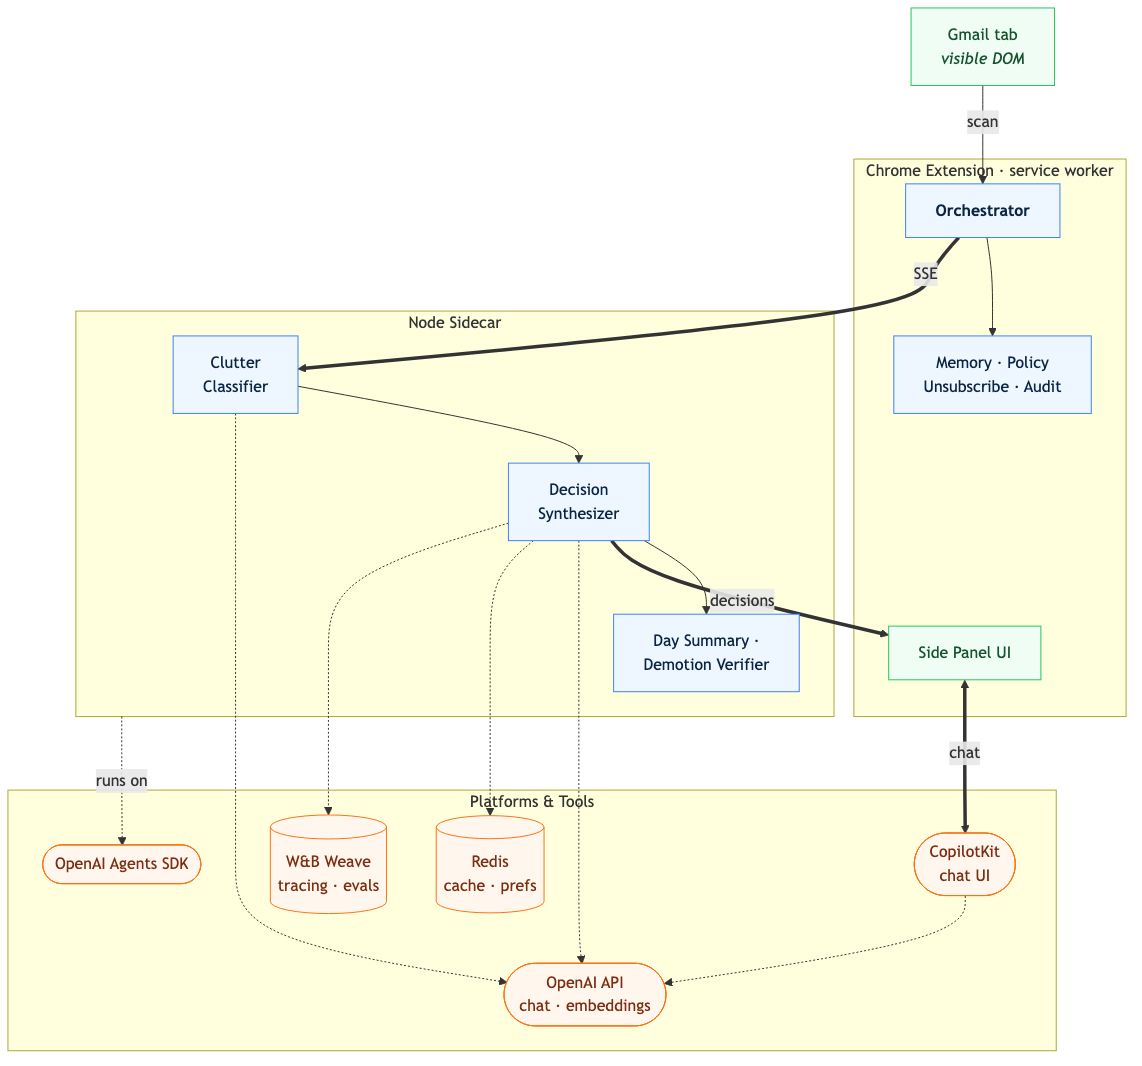
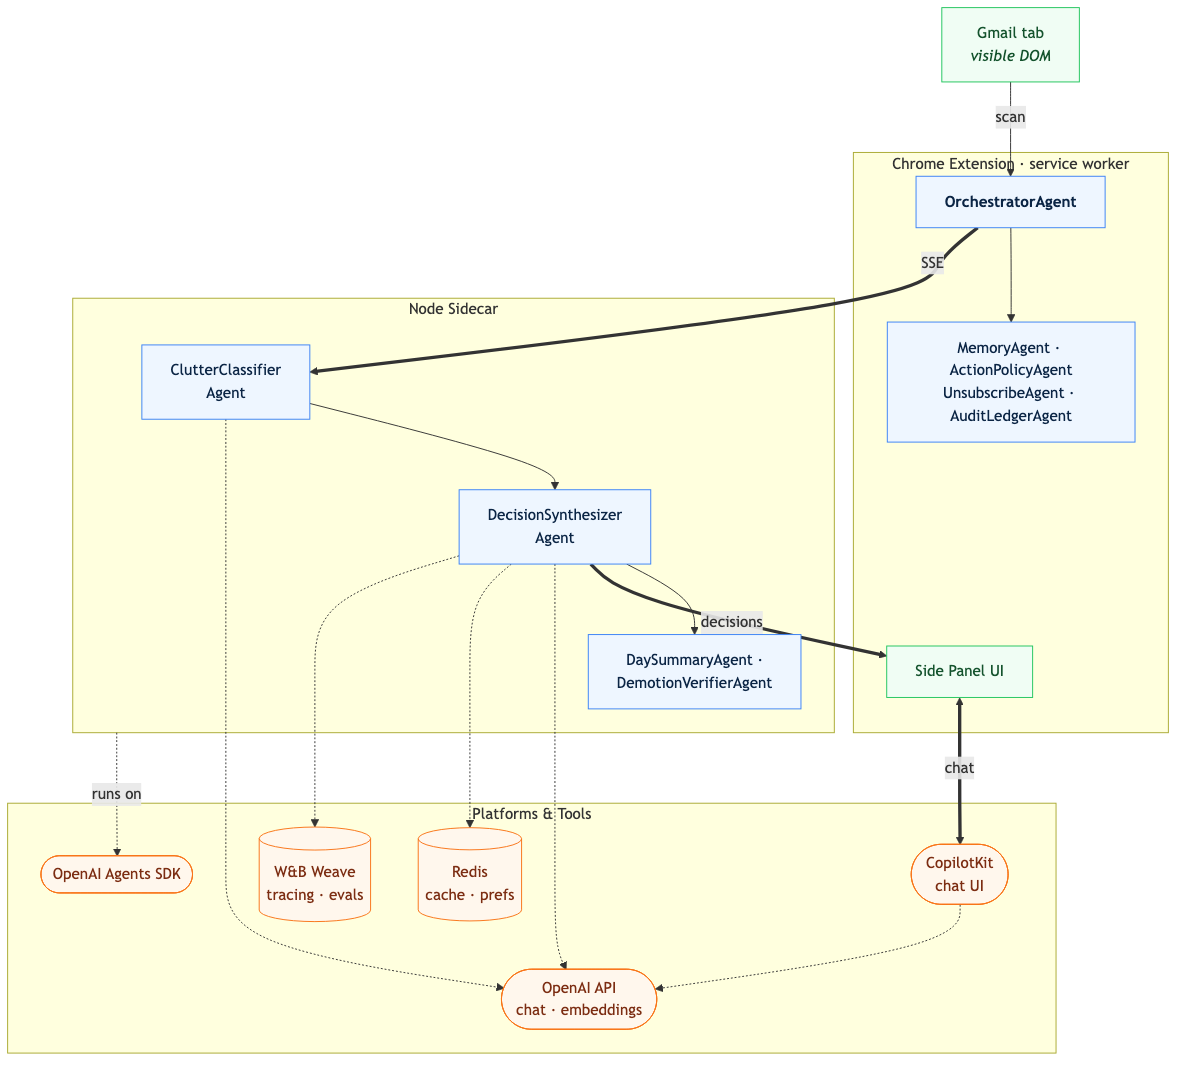
docs: use full *Agent names in the at-a-glance diagram (#70)
Anything that is an agent now carries the "Agent" suffix in the simplified
diagram, matching AGENT_REGISTRY and the detailed view: OrchestratorAgent,
MemoryAgent / ActionPolicyAgent / UnsubscribeAgent / AuditLedgerAgent,
ClutterClassifierAgent, DecisionSynthesizerAgent, DaySummaryAgent,
DemotionVerifierAgent. Non-agents (Side Panel UI, Gmail) and the platforms
are unchanged. Re-rendered the PNG hero.

diff --git a/docs/architecture.md b/docs/architecture.md
@@ -30,16 +30,16 @@ flowchart TB
 
   subgraph EXT["Chrome Extension · service worker"]
     direction LR
-    ORCH["<b>Orchestrator</b>"]
-    SUPPORT["Memory · Policy<br/>Unsubscribe · Audit"]
+    ORCH["<b>OrchestratorAgent</b>"]
+    SUPPORT["MemoryAgent · ActionPolicyAgent<br/>UnsubscribeAgent · AuditLedgerAgent"]
     PANEL["Side Panel UI"]
   end
 
   subgraph SIDE["Node Sidecar"]
     direction LR
-    CLUT["Clutter<br/>Classifier"]
-    SYN["Decision<br/>Synthesizer"]
-    EXTRA["Day Summary ·<br/>Demotion Verifier"]
+    CLUT["ClutterClassifier<br/>Agent"]
+    SYN["DecisionSynthesizer<br/>Agent"]
+    EXTRA["DaySummaryAgent ·<br/>DemotionVerifierAgent"]
   end
 
   subgraph TOOLS["Platforms & Tools"]
